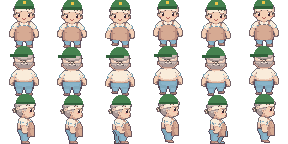
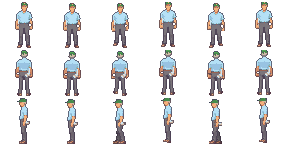
이장 새 그림: 사용자 AI 그림 (초록 새마을 모자 · 하늘색 남방, 6~7등신, 키 46px)
hue_shift 패치에 높이 제한 (선택 다섯째 값) 추가: 모자 청록만 초록으로.

Claude-Session: https://claude.ai/code/session_01Wh6fWXe5c1WEsJLxP6eT5s

diff --git a/tools/import_ai_character.py b/tools/import_ai_character.py
@@ -35,6 +35,7 @@
   연금술사 (2026-10-04): villagers/ai/alchemist.png --name alchemist --height 46 --width 20 --tall --keep-hue --hair-span 0.2 --front-hair 0.2
   목축인 (2026-10-04): villagers/ai/rancher.png --name rancher --height 46 --width 18 --tall --keep-hue --hair-span 0.45 --front-hair 0.3
   뱃사공 (2026-10-04): villagers/ai/ferryman.png --name ferryman --height 46 --width 20 --tall --keep-hue --hair-span 0.2 --front-hair 0.2
+  이장 (2026-10-04): villagers/ai/chief.png --name chief --height 46 --width 18 --tall --keep-hue --sat 1.2 --colors 32 --hair-span 0.2 --front-hair 0.2 --patch tools/char_parts/chief_patch.json
   확인: python3 tools/people_lineup.py 비교.png (모두 한 줄로 세운 4배 그림)
 """
 import argparse
@@ -310,10 +311,10 @@ def apply_patch(views, patch):
     rows 의 글자 하나가 픽셀 하나, '.' 는 그대로 둔다."""
     cols = {k: tuple(v) + (255,) for k, v in patch.get("colors", {}).items()}
     for view, img in views.items():
-        for h0, h1, dh, smul in patch.get("hue_shift", []):
-            # [시작 색상각, 끝 색상각, 옮길 각도, 채도 배율]: P1 보정에서 누렇게 뜬 옷 색을 제 색으로 (예: 쑥색 두루마기)
+        for h0, h1, dh, smul, *ymax in patch.get("hue_shift", []):
+            # [시작 색상각, 끝 색상각, 옮길 각도, 채도 배율, (이 높이 비율 위만)]: P1 보정에서 누렇게 뜬 옷 색을 제 색으로 (예: 쑥색 두루마기)
             px = img.load()
-            for y in range(img.height):
+            for y in range(round(img.height * ymax[0]) if ymax else img.height):
                 for x in range(img.width):
                     r, g, b, a = px[x, y]
                     hh, ss, vv = colorsys.rgb_to_hsv(r / 255, g / 255, b / 255)
